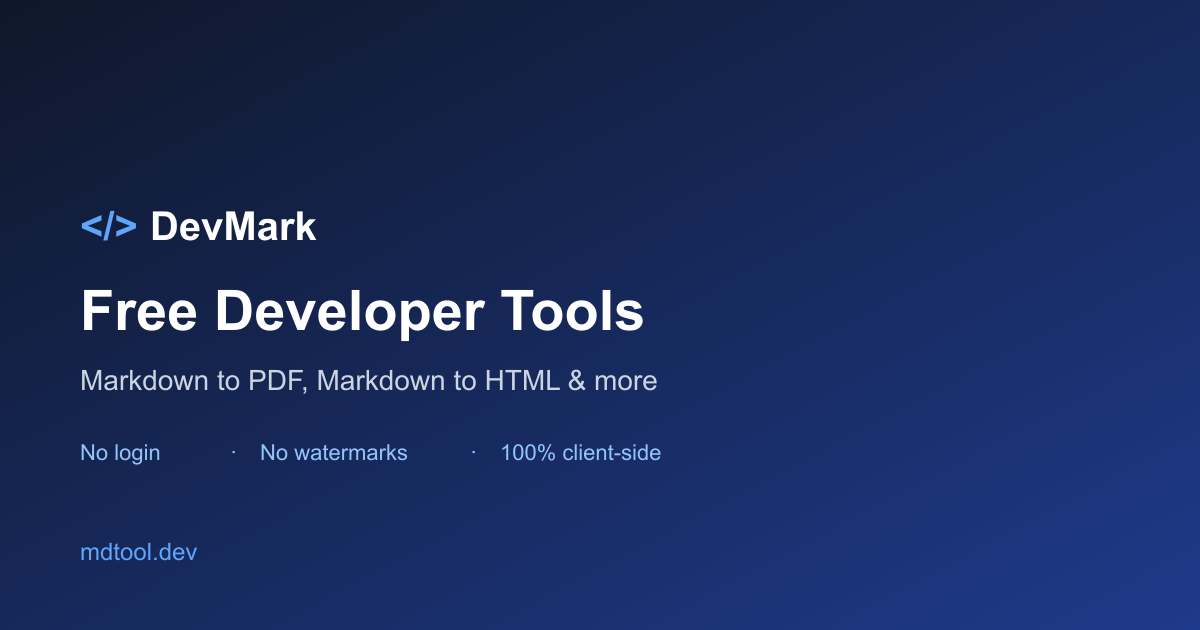
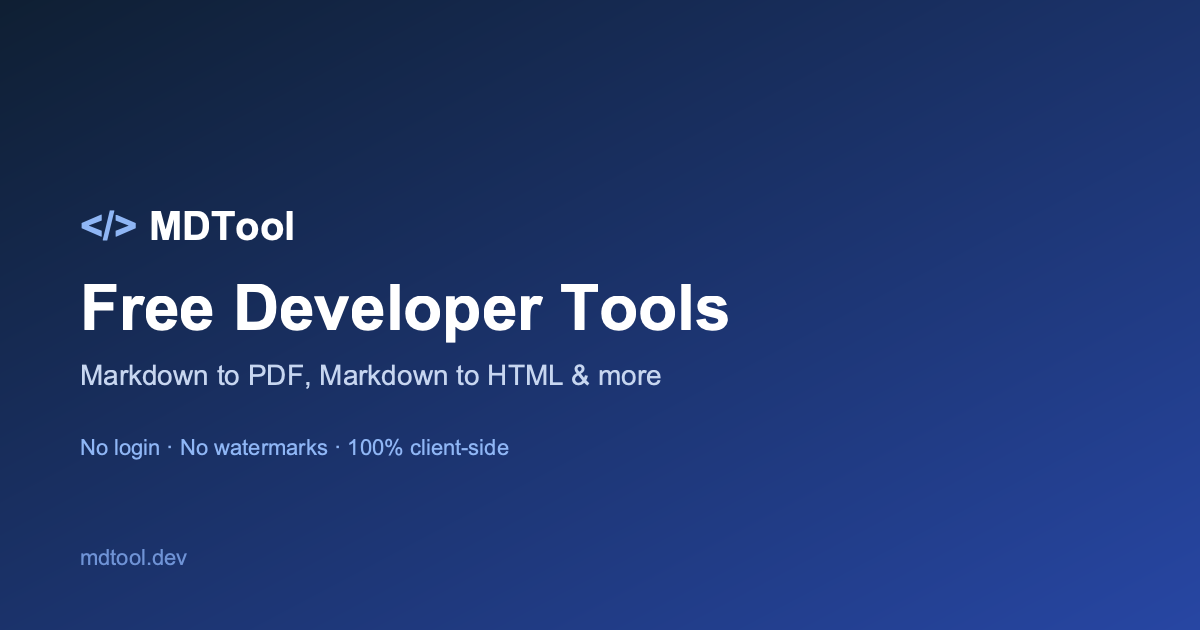
refactor: rename DevMark to MDTool across the codebase
- Updated metadata titles and descriptions in various pages to reflect the new branding.
- Changed author names in blog posts and structured data components.
- Modified footer and header components to display MDTool branding.
- Adjusted blog content to replace instances of DevMark with MDTool.
- Updated package.json and package-lock.json to change project name from DevMark to MDTool.
- Changed sample markdown content in ToolClient to reflect new branding.
- Updated image references and descriptions in blog posts.

diff --git a/app/layout.tsx b/app/layout.tsx
@@ -11,17 +11,17 @@ const inter = Inter({ subsets: ['latin'] });
 
 export const metadata: Metadata = {
   metadataBase: new URL('https://www.mdtool.dev'),
-  title: { default: 'DevMark — Free Developer Tools', template: '%s | DevMark' },
+  title: { default: 'MDTool — Free Developer Tools', template: '%s | MDTool' },
   description: 'Free online developer tools. Convert Markdown to PDF, Markdown to HTML, and more. Fast, client-side, no login required.',
   keywords: ['markdown to pdf', 'developer tools', 'md to pdf', 'markdown converter'],
-  authors: [{ name: 'DevMark' }],
-  creator: 'DevMark',
+  authors: [{ name: 'MDTool' }],
+  creator: 'MDTool',
   openGraph: {
     type: 'website',
     locale: 'en_US',
     url: 'https://www.mdtool.dev',
-    siteName: 'DevMark',
-    images: [{ url: '/og-image.png', width: 1200, height: 630, alt: 'DevMark — Free Developer Tools' }],
+    siteName: 'MDTool',
+    images: [{ url: '/og-image.png', width: 1200, height: 630, alt: 'MDTool — Free Developer Tools' }],
   },
   twitter: {
     card: 'summary_large_image',

diff --git a/app/markdown-to-pdf/page.tsx b/app/markdown-to-pdf/page.tsx
@@ -9,7 +9,7 @@ export const metadata: Metadata = {
   description: 'Convert Markdown to PDF instantly in your browser. Supports GFM, syntax-highlighted code, tables, images, and Mermaid diagrams. Free, no signup.',
   keywords: ['markdown to pdf', 'md to pdf', 'convert markdown to pdf', 'markdown pdf converter', 'github readme to pdf'],
   openGraph: {
-    title: 'Free Markdown to PDF Converter — DevMark',
+    title: 'Free Markdown to PDF Converter — MDTool',
     description: 'Convert Markdown to PDF instantly. Supports code highlighting, tables, Mermaid diagrams. 100% free, no login.',
     url: 'https://www.mdtool.dev/markdown-to-pdf',
     images: [{ url: '/og-image.png', width: 1200, height: 630 }],
@@ -24,14 +24,14 @@ const FAQ_ITEMS = [
     q: 'Can I convert GitHub Flavored Markdown (GFM) to PDF?',
     a: (
       <>
-        Yes. DevMark fully supports{' '}
+        Yes. MDTool fully supports{' '}
         <a href="https://github.github.com/gfm/" target="_blank" rel="noopener noreferrer" className="text-blue-600 hover:underline">
           GitHub Flavored Markdown
         </a>{' '}
         including tables, task lists, strikethrough, fenced code blocks with syntax highlighting, and autolinks.
       </>
     ),
-    text: 'Yes. DevMark fully supports GitHub Flavored Markdown including tables, task lists, strikethrough, fenced code blocks with syntax highlighting, and autolinks.',
+    text: 'Yes. MDTool fully supports GitHub Flavored Markdown including tables, task lists, strikethrough, fenced code blocks with syntax highlighting, and autolinks.',
   },
   {
     q: 'Does the converted PDF support syntax highlighting in code blocks?',
@@ -71,8 +71,8 @@ const FAQ_ITEMS = [
   },
   {
     q: 'What PDF themes are available?',
-    a: 'DevMark offers four themes: GitHub (developer-friendly), Academic (for papers and reports), Minimal (clean and modern), and Dark (dark background).',
-    text: 'DevMark offers four themes: GitHub (developer-friendly), Academic (for papers and reports), Minimal (clean and modern), and Dark (dark background).',
+    a: 'MDTool offers four themes: GitHub (developer-friendly), Academic (for papers and reports), Minimal (clean and modern), and Dark (dark background).',
+    text: 'MDTool offers four themes: GitHub (developer-friendly), Academic (for papers and reports), Minimal (clean and modern), and Dark (dark background).',
   },
   {
     q: 'Can I convert a .md file with images?',

diff --git a/components/seo/StructuredData.tsx b/components/seo/StructuredData.tsx
@@ -18,7 +18,7 @@ export default function StructuredData({ type, name, url, description, datePubli
     organization: {
       '@context': 'https://schema.org',
       '@type': 'Organization',
-      name: 'DevMark',
+      name: 'MDTool',
       url: baseUrl,
       logo: `${baseUrl}/logo.png`,
     },
@@ -35,7 +35,7 @@ export default function StructuredData({ type, name, url, description, datePubli
     tool: {
       '@context': 'https://schema.org',
       '@type': 'WebApplication',
-      name: name || 'DevMark — Developer Tools',
+      name: name || 'MDTool — Developer Tools',
       url: `${baseUrl}${url || ''}`,
       description: description || 'Free online developer tools — Markdown to PDF converter and more.',
       applicationCategory: 'DeveloperApplication',
@@ -63,10 +63,10 @@ export default function StructuredData({ type, name, url, description, datePubli
       image: image ? `${baseUrl}${image}` : `${baseUrl}/og-image.png`,
       datePublished,
       dateModified: dateModified || datePublished,
-      author: { '@type': 'Person', name: author || 'DevMark Editorial Team', url: baseUrl },
+      author: { '@type': 'Person', name: author || 'MDTool Editorial Team', url: baseUrl },
       publisher: {
         '@type': 'Organization',
-        name: 'DevMark',
+        name: 'MDTool',
         logo: { '@type': 'ImageObject', url: `${baseUrl}/logo.png`, width: 512, height: 512 },
       },
     },

diff --git a/app/page.tsx b/app/page.tsx
@@ -2,7 +2,7 @@ import type { Metadata } from 'next';
 import Link from 'next/link';
 
 export const metadata: Metadata = {
-  title: 'DevMark — Free Developer Tools',
+  title: 'MDTool — Free Developer Tools',
   description: 'Free online developer tools. Convert Markdown to PDF, Markdown to HTML, and more. Fast, client-side, no login required.',
   alternates: { canonical: 'https://www.mdtool.dev' },
 };
@@ -72,10 +72,10 @@ export default function HomePage() {
         </div>
       </section>
 
-      {/* Why DevMark */}
+      {/* Why MDTool */}
       <section className="bg-white border-t border-gray-100 px-4 py-12">
         <div className="max-w-4xl mx-auto">
-          <h2 className="text-2xl font-bold text-gray-800 mb-8 text-center">Why DevMark?</h2>
+          <h2 className="text-2xl font-bold text-gray-800 mb-8 text-center">Why MDTool?</h2>
           <div className="grid grid-cols-1 md:grid-cols-3 gap-6 text-center">
             {[
               { icon: '🔒', title: 'Private by Default', desc: 'Files never leave your device. All processing is 100% client-side.' },

diff --git a/components/layout/Footer.tsx b/components/layout/Footer.tsx
@@ -22,7 +22,7 @@ export default function Footer() {
         <div>
           <div className="flex items-center gap-2 font-bold text-white text-lg mb-3">
             <span className="text-blue-400">&lt;/&gt;</span>
-            <span>DevMark</span>
+            <span>MDTool</span>
           </div>
           <p className="text-sm text-gray-500 leading-relaxed">
             Free developer tools for Markdown, PDF conversion, and more.
@@ -60,7 +60,7 @@ export default function Footer() {
       </div>
 
       <div className="border-t border-gray-800 px-4 py-4 max-w-6xl mx-auto flex flex-col md:flex-row justify-between items-center gap-2 text-xs text-gray-600">
-        <span>© {new Date().getFullYear()} DevMark. Free to use, forever.</span>
+        <span>© {new Date().getFullYear()} MDTool. Free to use, forever.</span>
         <span>No login required · No watermarks · Files never uploaded</span>
       </div>
     </footer>

diff --git a/components/tools/ToolClient.tsx b/components/tools/ToolClient.tsx
@@ -8,7 +8,7 @@ import DownloadButton from './DownloadButton';
 import { parseMarkdown, countWords } from '@/lib/markdown';
 import { ThemeId } from '@/lib/pdf';
 
-const SAMPLE_MARKDOWN = `# Welcome to DevMark
+const SAMPLE_MARKDOWN = `# Welcome to MDTool
 
 ## Code Highlighting Example
 
@@ -21,7 +21,7 @@ const convert = async (markdown) => {
 
 ## Table Example
 
-| Feature | DevMark | Others |
+| Feature | MDTool | Others |
 |---------|---------|--------|
 | Code highlighting | ✅ | ❌ |
 | Mermaid diagrams | ✅ | ❌ |

diff --git a/lib/blog.ts b/lib/blog.ts
@@ -44,7 +44,7 @@ export function getAllBlogPosts(): BlogPost[] {
         content,
         image: data.image || `/blog/${slug}.jpg`,
         imageAlt: data.imageAlt || data.title || slug,
-        author: data.author || 'DevMark Editorial Team',
+        author: data.author || 'MDTool Editorial Team',
       };
     })
     .sort((a, b) => new Date(b.datePublished).getTime() - new Date(a.datePublished).getTime());
@@ -69,6 +69,6 @@ export function getBlogPost(slug: string): BlogPost | null {
     content,
     image: data.image || `/blog/${slug}.jpg`,
     imageAlt: data.imageAlt || data.title || slug,
-    author: data.author || 'DevMark Editorial Team',
+    author: data.author || 'MDTool Editorial Team',
   };
 }

diff --git a/app/blog/page.tsx b/app/blog/page.tsx
@@ -3,7 +3,7 @@ import { getAllBlogPosts } from '@/lib/blog';
 import BlogCard from '@/components/blog/BlogCard';
 
 export const metadata: Metadata = {
-  title: 'Developer Blog — DevMark',
+  title: 'Developer Blog — MDTool',
   description: 'Guides and tutorials for working with Markdown, PDF conversion, and developer tools. Tips, workflows, and best practices.',
   alternates: {
     canonical: 'https://www.mdtool.dev/blog',

diff --git a/components/layout/Header.tsx b/components/layout/Header.tsx
@@ -20,7 +20,7 @@ export default function Header() {
         {/* Logo */}
         <Link href="/" className="flex items-center gap-2 font-bold text-xl">
           <span className="text-blue-300">&lt;/&gt;</span>
-          <span>DevMark</span>
+          <span>MDTool</span>
           <span className="text-xs font-normal text-blue-300 bg-blue-900 px-2 py-0.5 rounded-full">tools</span>
         </Link>
 